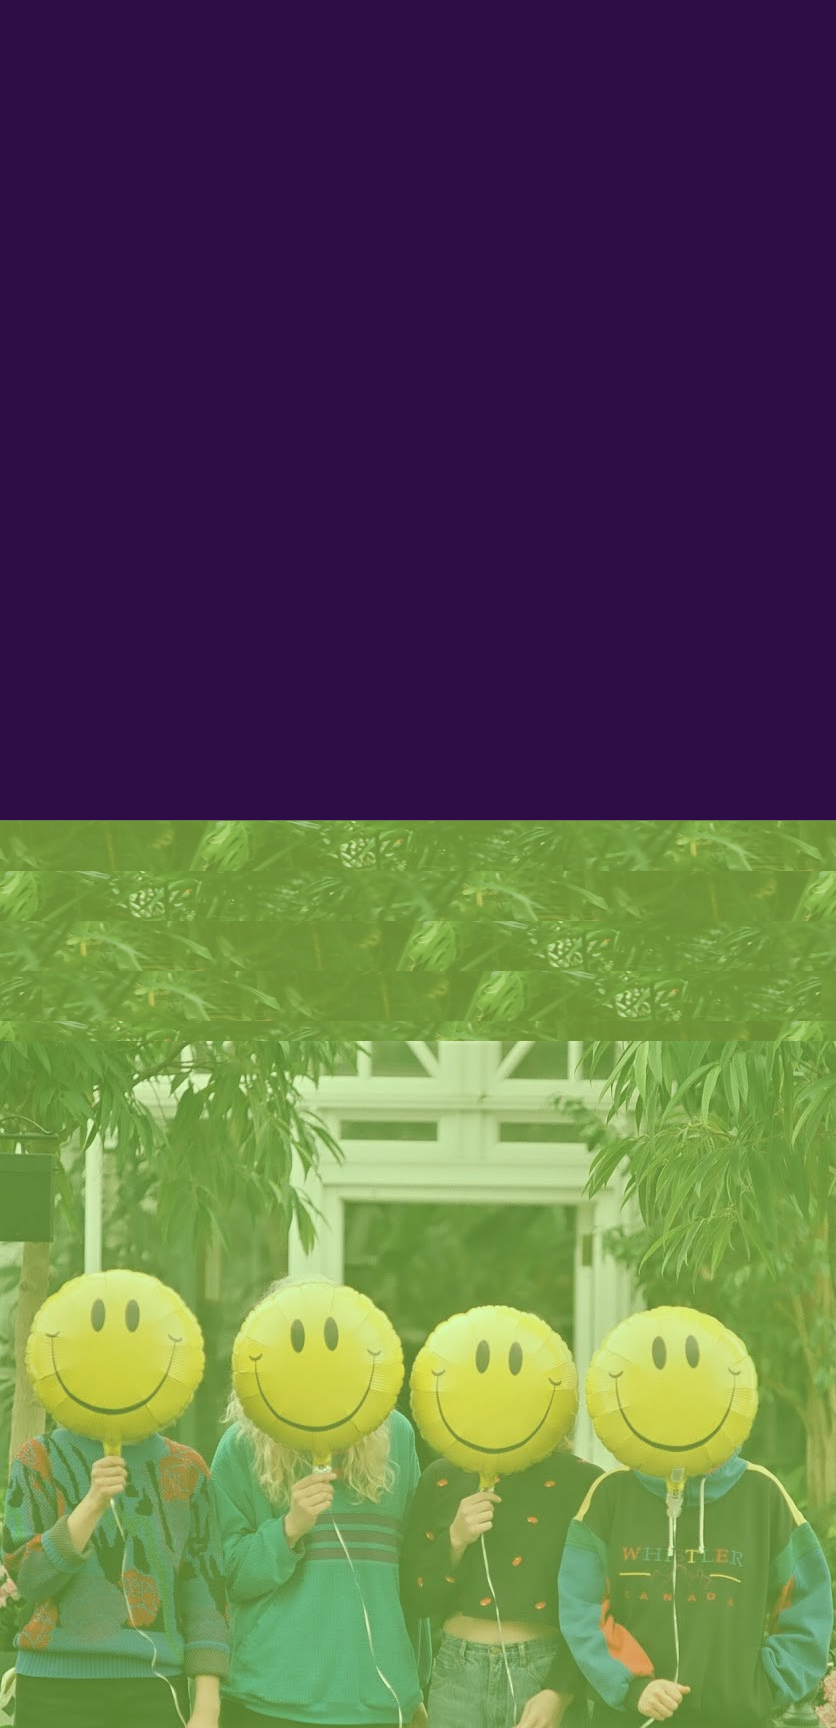
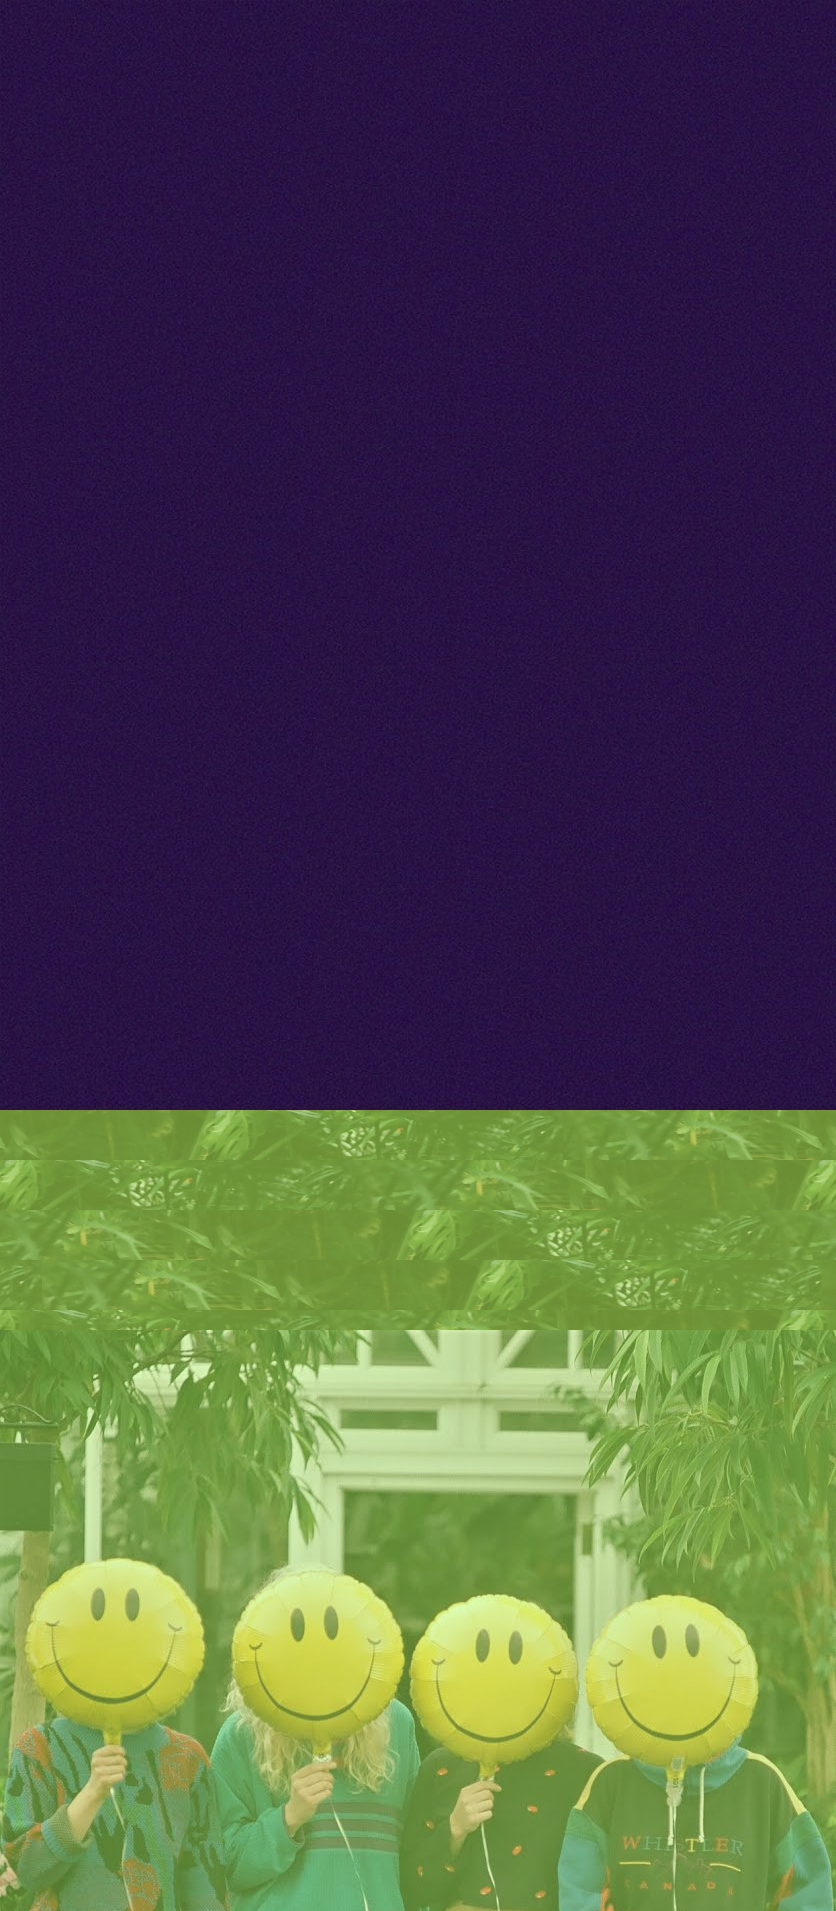
home style

diff --git a/client/src/pageStyles/homeStyle.css b/client/src/pageStyles/homeStyle.css
@@ -1,37 +1,42 @@
-.cover {
-    text-align: center;
-    position: relative;
-    bottom: 4%;
-    width: 100%;
+.home-title {
+    position: absolute;
+    top: 0;
+    left: 0;
+    text-align: left;
+    z-index: 2;
 }
 
 h1 {
-    color: rgba(238, 238, 238, .6);
-    font-size: 2.1rem;
-    position: absolute;
-    top: 0px;
-    left: 0;
-    text-align: left;
-}
-
-p {
-    color: rgb(255, 249, 222);
+    color: rgba(254, 249, 106, 0.3);
+    font-size: 3.3rem;
+    -webkit-text-fill-color: transparent;
+    -webkit-text-stroke: .2px rgba(252, 248, 140, 0.5);
+    
 }
 
 .listen {
-    margin: 5px auto;
+    border-bottom: 1px solid rgba(255, 255, 255, 0.9);
+    margin-top: 5px;
+    padding-left: 10px;
+    width: fit-content;
 }
 
 .listen p {
-    color: white;
+    color: rgba(255, 255, 255, 0.8);
+}
+
+.cover {
+    text-align: center;
+    position: relative;
+    bottom: 5%;
+    width: 100%;
 }
 
 .album-cover {
-    /* border: 1px solid rgb(255, 255, 255);
-    box-shadow: 3px 3px 5px rgba(69, 68, 68, 0.8); */
+    height: calc(100vw);
     margin: 0 auto;
     margin-top: 5px;
-    width: 90%;
+    width: 100%;
 }
 
 .buy {
@@ -53,13 +58,10 @@ p {
     padding: 1px 12px;
 }
 
-.patreon-link {
-    padding-top: 5%;
-}
-
 .patreon-link p {
-    background-color: rgba(255, 222, 222, 0.5);
-    color: rgb(46, 12, 70);
+    background-color: rgba(146, 187, 79, 0.6);
+    color: rgba(46, 12, 70, 1);
+    font-weight: bold;
 }
 
 @media screen and (min-width: 500px) {

diff --git a/client/src/pages/Home.js b/client/src/pages/Home.js
@@ -5,15 +5,16 @@ import '../pageStyles/homeStyle.css';
 export const Home = () => {
     return (
         <section id='home'>
-            <h1>CHASTITY BELT</h1>
-            <div className='cover'>
-                <p>Self-titled album out now on Hardly Art!</p>
-                <div className='listen link'>
-                    <a href='https://ffm.to/chazzy' target='_blank' rel="noopener noreferrer">
-                        <p>LISTEN</p>
-                    </a>
+            <div class='home-title'>
+                <h1>CHASTITY BELT</h1>
+                <div className='listen'>
+                <a href='https://ffm.to/chazzy' target='_blank' rel="noopener noreferrer">
+                    <p>LISTEN</p>
+                </a>
                 </div>
-                <img className='album-cover' src='images/album_cover.jpg' alt='album cover' />
+            </div>
+            <div className='cover'>
+                <img className='album-cover' src='images/album_cover.png' alt='album cover' />
                 <div className='buy'>
                     <a className='barcode' href='https://www.hardlyart.com/releases/chastity_belt/chastity_belt' target='_blank' rel='noopener  noreferrer'>BUY</a>
                 </div>

diff --git a/client/src/App.css b/client/src/App.css
@@ -50,7 +50,7 @@ h2 {
 
 #home {
     background-image: url(./backgrounds/home_mobile.png);
-    background-position: 50% 70%;
+    background-position: bottom;
     background-size: cover;
     display: flex;
     flex-direction: column;
